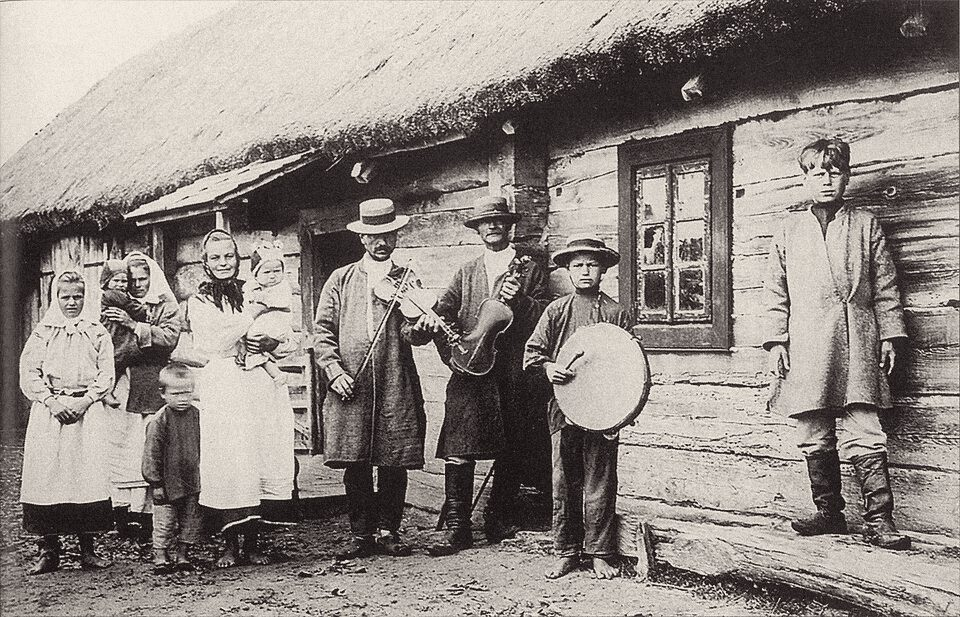
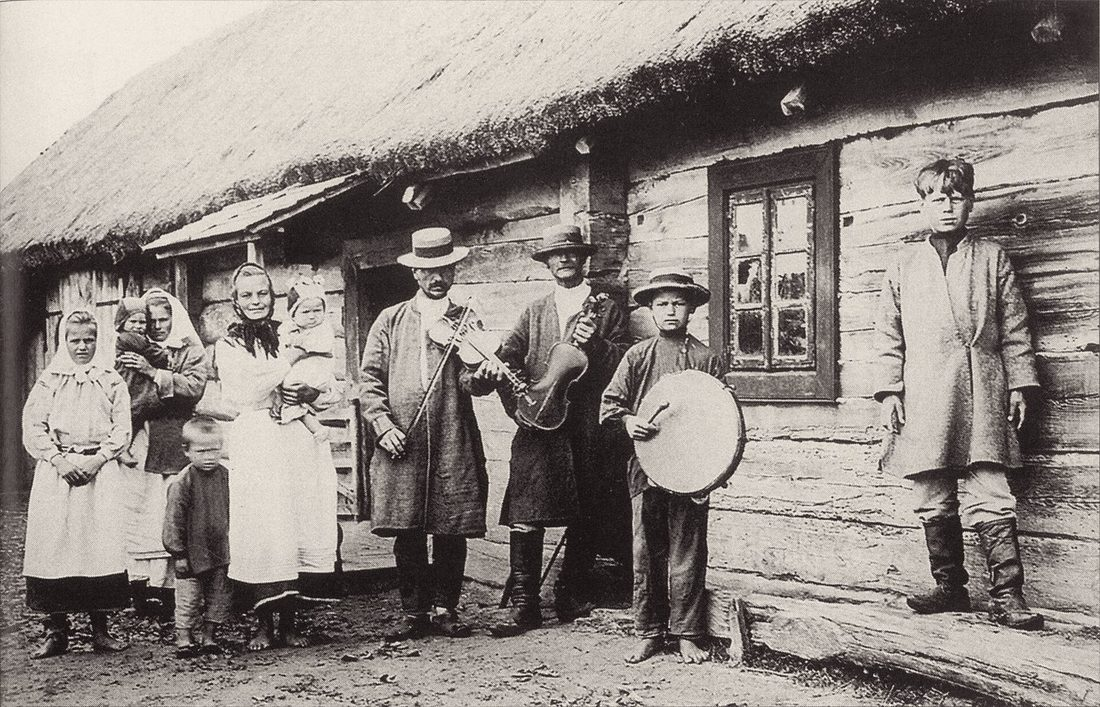
Галоўная: тры музыкі з Ляхавіч замест селяніна, усе знойдзеныя фота ў «Сяляне Слуцкага павета»
- вялікае фота на галоўнай: фрагмент здымка «Lachowiccy muzycy» (1913) з подпісам, подпіс бачны і на тэлефоне;
- селянін С. Юхніна перайшоў у блок «Людзі»;
- у «Людзі» дададзены: Беларус з-пад Клецка (Я. Булгак, 1912, Polona), Кунсткамера МАЭ № 1629-1, 1629-3, 1629-5, 1629-7;
- поўны здымак музыкаў зроблены з копіі 1920 px;
- тры шэрагі фота, на тэлефоне партрэты па тры ў радку;
- пераклады, выпраўлены польскі alt для здымка музыкаў.

Claude-Session: https://claude.ai/code/session_01CEQNfazUu5tmSUwrkbcVuZ

diff --git a/index.html b/index.html
@@ -472,7 +472,7 @@ dialog.zoom .close:hover { background: #f1ebe8; }
 .hero-ph.split figure { position: relative; margin: 0; height: 100%; overflow: hidden; }
 .hero-ph.split figure img { width: 100%; height: 100%; object-fit: cover; object-position: 50% 35%; }
 .hero-ph.split figure::before { content: ""; position: absolute; inset: 0; z-index: 1; background: linear-gradient(90deg, #ddd6ca 0, rgba(221, 214, 202, 0) 26%), linear-gradient(0deg, rgba(221, 214, 202, .9) 0, rgba(221, 214, 202, 0) 14%); pointer-events: none; }
-.home .hero-ph.split .ph-cap { color: #5d5552; z-index: 2; }
+.home .hero-ph.split .ph-cap { z-index: 2; top: 12px; right: 12px; bottom: auto; max-width: min(72%, 360px); padding: 4px 9px; border-radius: 6px; background: rgba(24, 17, 18, .6); color: #f4ede3; }
 .sec-title { display: flex; align-items: baseline; justify-content: space-between; gap: 16px; margin: 52px 0 18px; }
 .sec-title h2 { margin: 0; font: 700 clamp(26px, 3vw, 34px)/1.15 var(--serif); }
 .sec-title a { font-weight: 500; white-space: nowrap; }
@@ -540,13 +540,14 @@ a.place { text-decoration: none; }
   .history { grid-template-columns: 1fr; }
   .inf-grid { grid-template-columns: repeat(2, minmax(0, 1fr)); gap: 10px; }
   .inf-card { padding: 13px 12px 12px; } .inf-card b { font-size: 17px; }
-  .people { flex-wrap: wrap; gap: 12px; } .people figure:first-child { flex-basis: 100% !important; }
+  .people { flex-wrap: wrap; gap: 12px; } .people figure.wide { flex-basis: 100% !important; } .people figure:not(.wide) { min-width: 30%; }
   .hero-ph { min-height: 560px; height: 86vh; }
   .hero-ph.split { grid-template-columns: 1fr; height: auto; min-height: 0; }
   .hero-ph.split figure { order: -1; height: 58vh; }
   .hero-ph.split figure::before { background: linear-gradient(0deg, #ddd6ca 0, rgba(221, 214, 202, 0) 30%); }
   .hero-ph.split .hero-in { padding: 0 20px 30px; margin-top: -40px; position: relative; z-index: 2; }
   .ph-cap { display: none; }
+  .home .hero-ph.split .ph-cap { display: block; top: 10px; right: 10px; font-size: 12px; }
   .places { grid-template-columns: repeat(2, minmax(0, 1fr)); gap: 22px 14px; }
   .place b { font-size: 19px; }
   .music.collector, .music.melody { grid-template-columns: 1fr; }
@@ -1406,15 +1407,22 @@ a.place { text-decoration: none; }
       return (sub ? '<h3 class="people-h">' + t('Сяляне Слуцкага павета') + '</h3><p class="people-note">' + t('Гэта не спевакі Федароўскага, а сяляне і вясковыя музыкі Слуцкага павета, адкуль таксама паходзяць песні зборніка, на здымках пачатку XX стагоддзя. Жарабковічы — суседняя вёска са Шчаснавічамі і Заляшанамі, дзе запісвалі песні.') + '</p>'
         : '<div class="sec-title"><div><p class="eyebrow">' + t('Людзі') + '</p><h2>' + t('Сяляне Слуцкага павета') + '</h2></div></div>') +
         '<div class="people">' +
-          '<figure style="flex: 1.56 1 0"><img src="img/lachavicy-muzyki.jpg" alt="' + t('Скрыпач, музыка з басэтляй і хлопчык з бубнам каля хаты, побач жанчыны з дзецьмі') + '" loading="lazy"><figcaption>' + t('Вясковыя музыкі са скрыпкай, басэтляй і бубнам, Ляхавічы, 1913') + '</figcaption></figure>' +
+          '<figure class="wide" style="flex: 1.56 1 0"><img src="img/lachavicy-muzyki.jpg" alt="' + t('Скрыпач, музыка з басэтляй і хлопчык з бубнам каля хаты, побач жанчыны з дзецьмі') + '" loading="lazy"><figcaption>' + t('Вясковыя музыкі са скрыпкай, басэтляй і бубнам, Ляхавічы, 1913') + '</figcaption></figure>' +
           '<figure style="flex: .72 1 0"><img src="img/lachavicy-siamja.jpg" alt="' + t('Мужчына, жанчына і дзяўчынка ў святочным строі каля сцяны хаты') + '" loading="lazy"><figcaption>' + t('Сям\'я ў святочных строях, Ляхавічы, 1913. Фота Е. Раманава') + '</figcaption></figure>' +
           '<figure style="flex: .73 1 0"><img src="img/padlipcy.jpg" alt="' + t('Мужчына ў шапцы з казырком трымае на руках дзяўчынку') + '" loading="lazy"><figcaption>' + t('Селянін з дзяўчынкай, Падліпцы, 1905. Фота В. Косткі') + '</figcaption></figure>' +
+          '<figure style="flex: .68 1 0"><img src="img/padlipcy-praca.jpg" alt="' + t('Босы мужчына ў камізэльцы і палатняных портках') + '" loading="lazy"><figcaption>' + t('Селянін у рабочым строі, Падліпцы, да 1907') + '</figcaption></figure>' +
         '</div><div class="people">' +
-          '<figure style="flex: 1.64 1 0"><img src="img/lucniki.jpg" alt="' + t('Сяляне, мужчыны, жанчыны і дзеці, каля плота і хаты') + '" loading="lazy"><figcaption>' + t('Сяляне вёскі Лучнікі. Паштоўка паводле фота С. Юхніна, да 1917') + '</figcaption></figure>' +
+          '<figure class="wide" style="flex: 1.64 1 0"><img src="img/lucniki.jpg" alt="' + t('Сяляне, мужчыны, жанчыны і дзеці, каля плота і хаты') + '" loading="lazy"><figcaption>' + t('Сяляне вёскі Лучнікі. Паштоўка паводле фота С. Юхніна, да 1917') + '</figcaption></figure>' +
+          '<figure style="flex: .77 1 0"><img src="img/sluck-sielanin.jpg" alt="' + t('Стары селянін у кажуху і футравай шапцы, з люлькай і кіем') + '" loading="lazy"><figcaption>' + t('«Тып беларускага селяніна», Слуцк, да 1917. Фота С. Юхніна') + '</figcaption></figure>' +
+          '<figure style="flex: .61 1 0"><img src="img/kleck-bialorusin.jpg" alt="' + t('Стары барадаты мужчына ў світцы каля драўлянай сцяны') + '" loading="lazy"><figcaption>' + t('Беларус з-пад Клецка, 1912. Фота Я. Булгака') + '</figcaption></figure>' +
+          '<figure style="flex: .75 1 0"><img src="img/padlipcy-sviata.jpg" alt="' + t('Мужчына ў цёмнай світцы і белай кашулі') + '" loading="lazy"><figcaption>' + t('Селянін у святочным строі, Падліпцы, да 1907') + '</figcaption></figure>' +
+        '</div><div class="people">' +
           '<figure style="flex: .61 1 0"><img src="img/zarabkovicy-sialanin.jpg" alt="' + t('Мужчына ў саламяным капелюшы і доўгай світцы') + '" loading="lazy"><figcaption>' + t('Селянін у святочнай світцы, Жарабковічы, да 1907') + '</figcaption></figure>' +
           '<figure style="flex: .6 1 0"><img src="img/zarabkovicy-chlopiec.jpg" alt="' + t('Малады мужчына ў белай світцы і шапцы з казырком каля зруба') + '" loading="lazy"><figcaption>' + t('Малады селянін у святочным строі, Жарабковічы, да 1907') + '</figcaption></figure>' +
+          '<figure style="flex: .735 1 0"><img src="img/zarabkovicy-sialanin-2.jpg" alt="' + t('Мужчына ў картузе і світцы каля свірнаў') + '" loading="lazy"><figcaption>' + t('Селянін у святочным строі, Жарабковічы, да 1907') + '</figcaption></figure>' +
           '<figure style="flex: .83 1 0"><img src="img/zarabkovicy-muzcyna.jpg" alt="' + t('Мужчына з барадой у світцы') + '" loading="lazy"><figcaption>' + t('Селянін, 40 гадоў, Жарабковічы, да 1907') + '</figcaption></figure>' +
-        '</div><p class="ph-credit">' + t('Фота: Wikimedia Commons і Кунсткамера (МАЭ РАН), грамадскі набытак') + '</p>';
+          '<figure style="flex: .91 1 0"><img src="img/zarabkovicy-junak.jpg" alt="' + t('Юнак у картузе і светлай світцы') + '" loading="lazy"><figcaption>' + t('Юнак, 19 гадоў, Жарабковічы, да 1907') + '</figcaption></figure>' +
+        '</div><p class="ph-credit">' + t('Фота: Wikimedia Commons, Polona і Кунсткамера (МАЭ РАН), грамадскі набытак') + '</p>';
     };
     var first = visible[0] || SONGS[0];
     $('view').innerHTML =
@@ -1424,8 +1432,8 @@ a.place { text-decoration: none; }
       '<p class="sub">' + (ADULT ? t('{n} {songs} ў канцы XIX стагоддзя, з тома VIa зборніка {fed} <i lang="pl">Lud białoruski na Rusi Litewskiej</i>, раздзелы «Pieśni obsceniczne» і «Pieśni obsceniczne taneczne»: жартоўныя і непрыстойныя песні, дыялогі, прыпеўкі да круцёлкі, полькі і мяцеліцы. Песні, якія спяваюцца ад імя жанчыны, сюды не ўвайшлі. Для {m} з іх ёсць ноты, і мелодыю можна праслухаць. Гэты раздзел асобны: у асноўны каталог і пошук ён не трапляе.', { n: nf.format(SONGS.length), songs: plural(SONGS.length, 'мужчынская песня і прыпеўка, запісаная', 'мужчынскія песні і прыпеўкі, запісаныя', 'мужчынскіх песень і прыпевак, запісаных'), fed: fed, m: nf.format(own + ref) })
         : t('{n} {songs} ў канцы XIX стагоддзя, з V і VI тамоў зборніка {fed} <i lang="pl">Lud białoruski na Rusi Litewskiej</i>: тыя, што спяваюцца ад імя хлопца, казака, жаўнера, рэкрута, мужа, дыялогі з мужчынскай партыяй, балады і думы, рэкруцкія, чумацкія, жартоўныя і застольныя, круцёлкі і іншыя танцы, валачобныя, калядныя і хрэсьбінныя. Для {m} з іх ёсць ноты, і мелодыю можна праслухаць.', { n: nf.format(SONGS.length), songs: plural(SONGS.length, 'песня, запісаная', 'песні, запісаныя', 'песень, запісаных'), fed: fed, m: nf.format(own + ref) })) + '</p>' +
       '<button class="home-search" id="homeSearch">' + svg('search', '') + t('Нумар, радок, імя…') + '</button></div>' +
-      '<figure><img src="img/sluck-sielanin.jpg" alt="' + t('Стары селянін у кажуху і футравай шапцы, з люлькай і кіем') + '" fetchpriority="high">' +
-      '<figcaption class="ph-cap">' + t('«Тып беларускага селяніна», Слуцк, да 1917. Фота С. Юхніна, грамадскі набытак') + '</figcaption></figure></section>' +
+      '<figure><img src="img/lachavicy-muzyki-hero.jpg" alt="' + t('Скрыпач, музыка з басэтляй і хлопчык з бубнам каля хаты пад саламянай страхой') + '" fetchpriority="high">' +
+      '<figcaption class="ph-cap">' + t('Вясковыя музыкі са скрыпкай, басэтляй і бубнам, Ляхавічы, 1913. Wikimedia Commons, грамадскі набытак') + '</figcaption></figure></section>' +
       '<p class="actions"><a class="btn primary" href="#' + esc(first.id) + '">' + svg('book', '') + t('Адкрыць першую песню') + '</a><a class="btn quiet" href="#map">' + svg('map', '') + t('Мапа мясцін') + '</a>' + (ADULT ? '<a class="btn quiet" href="' + MAIN + '">' + t('Асноўны каталог') + '</a>' : '') + '</p>' +
       '<section class="music collector"><figure><img src="img/fedarouski.jpg" alt="' + t('Міхал Федароўскі') + '" loading="lazy"><figcaption>' + t('Міхал Федароўскі (1853–1923). Фота з IV тома «Lud białoruski», 1935. Polona, грамадскі набытак') + '</figcaption></figure>' +
       '<div><p class="eyebrow">' + t('Збіральнік') + '</p><h2>' + t('Міхал Федароўскі') + '</h2><p>' + t('З 1877 па 1905 год ён збіраў песні, казкі, прыказкі і павер\'і з Ваўкавышчыны, Слонімшчыны, Лідчыны, Сакольшчыны і суседніх паветаў. Запісы паходзілі з розных крыніц. З гэтых матэрыялаў склалася восем тамоў «Lud białoruski na Rusi Litewskiej».') + '</p><p>' + t('Песні з нотамі ўвайшлі ў V і VI тамы. Пры кожнай песні пазначана мясціна і, калі вядома, ад каго яе запісалі.') + '</p></div></section>' +

diff --git a/i18n.js b/i18n.js
@@ -148,7 +148,7 @@
     ["мужчынскія песні і прыпеўкі, запісаныя", "męskie pieśni i przyśpiewki zapisane", "men’s songs and ditties written down"],
     ["мужчынскіх песень і прыпевак, запісаных", "męskich pieśni i przyśpiewek zapisanych", "men’s songs and ditties written down"],
     ["Стары селянін у кажуху і футравай шапцы, з люлькай і кіем", "Stary chłop w kożuchu i futrzanej czapce, z fajką i laską", "An old peasant in a sheepskin coat and fur hat, with a pipe and a stick"],
-    ["«Тып беларускага селяніна», Слуцк, да 1917. Фота С. Юхніна, грамадскі набытак", "„Typ chłopa białoruskiego”, Słuck, przed 1917. Fot. S. Juchnin, domena publiczna", "“A Belarusian peasant type”, Slutsk, before 1917. Photo by S. Yukhnin, public domain"],
+    ["«Тып беларускага селяніна», Слуцк, да 1917. Фота С. Юхніна", "„Typ chłopa białoruskiego”, Słuck, przed 1917. Fot. S. Juchnin", "“A Belarusian peasant type”, Slutsk, before 1917. Photo by S. Yukhnin"],
     ["Адкрыць першую песню", "Otwórz pierwszą pieśń", "Open the first song"],
     ["Асноўны каталог", "Główny katalog", "Main catalogue"],
     ["Мясціны", "Miejscowości", "Places"],
@@ -181,7 +181,7 @@
     ["Мужчына ў шапцы з казырком трымае на руках дзяўчынку", "Mężczyzna w czapce z daszkiem trzyma na rękach dziewczynkę", "A man in a peaked cap holding a little girl"],
     ["Селянін з дзяўчынкай, Падліпцы, 1905. Фота В. Косткі", "Chłop z dziewczynką, Podlipce, 1905. Fot. W. Kostka", "A peasant with a little girl, Padliptsy, 1905. Photo by V. Kostka"],
     ["Гэта не спевакі Федароўскага, а сяляне і вясковыя музыкі Слуцкага павета, адкуль таксама паходзяць песні зборніка, на здымках пачатку XX стагоддзя. Жарабковічы — суседняя вёска са Шчаснавічамі і Заляшанамі, дзе запісвалі песні.", "To nie śpiewacy Federowskiego, lecz chłopi i wiejscy muzykanci z powiatu słuckiego, z którego także pochodzą pieśni zbioru, na zdjęciach z początku XX wieku. Żerebkowicze sąsiadują ze Szczasnowiczami i Zaleszanami, gdzie zapisywano pieśni.", "These are not Federowski’s singers but peasants and village musicians of Slutsk district, where some of the collection’s songs also come from, in photographs from the early 20th century. Zharabkovichy is the next village to Shchasnavichy and Zalyashany, where songs were written down."],
-    ["Скрыпач, музыка з басэтляй і хлопчык з бубнам каля хаты, побач жанчыны з дзецьмі", "A fiddler, a bass player and a boy with a drum by a cottage, women with children beside them", "A fiddler, a bass player and a boy with a drum by a cottage, with women and children beside them"],
+    ["Скрыпач, музыка з басэтляй і хлопчык з бубнам каля хаты, побач жанчыны з дзецьмі", "Skrzypek, muzykant z basetlą i chłopiec z bębenkiem przy chacie, obok kobiety z dziećmi", "A fiddler, a bass player and a boy with a drum by a cottage, with women and children beside them"],
     ["Вясковыя музыкі са скрыпкай, басэтляй і бубнам, Ляхавічы, 1913", "Wiejscy muzykanci ze skrzypcami, basetlą i bębenkiem, Lachowicze, 1913", "Village musicians with a fiddle, a bass and a drum, Lyakhavichy, 1913"],
     ["Мужчына ў саламяным капелюшы і доўгай світцы", "Mężczyzna w słomkowym kapeluszu i długiej świcie", "A man in a straw hat and a long homespun coat"],
     ["Селянін у святочнай світцы, Жарабковічы, да 1907", "Chłop w odświętnej świcie, Żerebkowicze, przed 1907", "A peasant in a festive homespun coat, Zharabkovichy, before 1907"],
@@ -189,7 +189,19 @@
     ["Малады селянін у святочным строі, Жарабковічы, да 1907", "Młody chłop w stroju odświętnym, Żerebkowicze, przed 1907", "A young peasant in festive dress, Zharabkovichy, before 1907"],
     ["Мужчына з барадой у світцы", "Brodaty mężczyzna w świcie", "A bearded man in a homespun coat"],
     ["Селянін, 40 гадоў, Жарабковічы, да 1907", "Chłop, 40 lat, Żerebkowicze, przed 1907", "A peasant, aged 40, Zharabkovichy, before 1907"],
-    ["Фота: Wikimedia Commons і Кунсткамера (МАЭ РАН), грамадскі набытак", "Zdjęcia: Wikimedia Commons i Kunstkamera (MAE RAN), domena publiczna", "Photos: Wikimedia Commons and the Kunstkamera (MAE RAS), public domain"],
+    ["Фота: Wikimedia Commons, Polona і Кунсткамера (МАЭ РАН), грамадскі набытак", "Zdjęcia: Wikimedia Commons, Polona i Kunstkamera (MAE RAN), domena publiczna", "Photos: Wikimedia Commons, Polona and the Kunstkamera (MAE RAS), public domain"],
+    ["Скрыпач, музыка з басэтляй і хлопчык з бубнам каля хаты пад саламянай страхой", "Skrzypek, muzykant z basetlą i chłopiec z bębenkiem przy chacie krytej strzechą", "A fiddler, a bass player and a boy with a drum by a thatched cottage"],
+    ["Вясковыя музыкі са скрыпкай, басэтляй і бубнам, Ляхавічы, 1913. Wikimedia Commons, грамадскі набытак", "Wiejscy muzykanci ze skrzypcami, basetlą i bębenkiem, Lachowicze, 1913. Wikimedia Commons, domena publiczna", "Village musicians with a fiddle, a bass and a drum, Lyakhavichy, 1913. Wikimedia Commons, public domain"],
+    ["Стары барадаты мужчына ў світцы каля драўлянай сцяны", "Stary brodaty mężczyzna w świcie przy drewnianej ścianie", "An old bearded man in a homespun coat by a wooden wall"],
+    ["Беларус з-пад Клецка, 1912. Фота Я. Булгака", "Białorusin spod Klecka, 1912. Fot. J. Bułhak", "A Belarusian from near Kletsk, 1912. Photo by J. Bułhak"],
+    ["Мужчына ў картузе і світцы каля свірнаў", "Mężczyzna w kaszkiecie i świcie przy spichrzach", "A man in a peaked cap and homespun coat by granaries"],
+    ["Селянін у святочным строі, Жарабковічы, да 1907", "Chłop w stroju odświętnym, Żerebkowicze, przed 1907", "A peasant in festive dress, Zharabkovichy, before 1907"],
+    ["Юнак у картузе і светлай світцы", "Młodzieniec w kaszkiecie i jasnej świcie", "A young man in a peaked cap and a light homespun coat"],
+    ["Юнак, 19 гадоў, Жарабковічы, да 1907", "Młodzieniec, 19 lat, Żerebkowicze, przed 1907", "A young man, aged 19, Zharabkovichy, before 1907"],
+    ["Мужчына ў цёмнай світцы і белай кашулі", "Mężczyzna w ciemnej świcie i białej koszuli", "A man in a dark homespun coat and a white shirt"],
+    ["Селянін у святочным строі, Падліпцы, да 1907", "Chłop w stroju odświętnym, Podlipce, przed 1907", "A peasant in festive dress, Padliptsy, before 1907"],
+    ["Босы мужчына ў камізэльцы і палатняных портках", "Bosy mężczyzna w kamizelce i lnianych portkach", "A barefoot man in a waistcoat and linen trousers"],
+    ["Селянін у рабочым строі, Падліпцы, да 1907", "Chłop w stroju roboczym, Podlipce, przed 1907", "A peasant in working dress, Padliptsy, before 1907"],
     ["Міхал Федароўскі (1853–1923). Фота з IV тома «Lud białoruski», 1935. Polona, грамадскі набытак", "Michał Federowski (1853–1923). Zdjęcie z tomu IV „Ludu białoruskiego”, 1935. Polona, domena publiczna", "Michał Federowski (1853–1923). Photo from volume IV of Lud białoruski, 1935. Polona, public domain"],
     ["Збіральнік", "Zbieracz", "The collector"],
     ["З 1877 па 1905 год ён збіраў песні, казкі, прыказкі і павер'і з Ваўкавышчыны, Слонімшчыны, Лідчыны, Сакольшчыны і суседніх паветаў. Запісы паходзілі з розных крыніц. З гэтых матэрыялаў склалася восем тамоў «Lud białoruski na Rusi Litewskiej».", "W latach 1877–1905 zbierał pieśni, bajki, przysłowia i wierzenia z Wołkowyszczyzny, Słonimszczyzny, Lidczyzny, Sokólszczyzny i sąsiednich powiatów. Zapisy pochodziły z różnych źródeł. Z tych materiałów powstało osiem tomów „Ludu białoruskiego na Rusi Litewskiej”.", "From 1877 to 1905 he collected songs, tales, proverbs and beliefs from the Vawkavysk, Slonim, Lida and Sokółka districts and the areas around them. The records came from various sources. These materials made up the eight volumes of Lud białoruski na Rusi Litewskiej."],

diff --git a/img/README.md b/img/README.md
@@ -5,7 +5,8 @@
 
 | Файл | Дзе на сайце | Што на фота | Дата | Крыніца |
 |---|---|---|---|---|
-| `sluck-sielanin.jpg` | галоўная, вялікае фота | «Тып беларускага селяніна», Слуцк. Фота С. Юхніна | да 1917 | [Wikimedia Commons](https://commons.wikimedia.org/wiki/File:23_Slucak_Bielaruski_sielanin.jpg) |
+| `lachavicy-muzyki-hero.jpg` | галоўная, вялікае фота | Тры музыкі (скрыпка, басэтля, бубен), фрагмент здымка `lachavicy-muzyki.jpg`, Ляхавічы | 1913 | [Wikimedia Commons](https://commons.wikimedia.org/wiki/File:Lachowiccy_muzycy.jpg) |
+| `sluck-sielanin.jpg` | «Людзі» | «Тып беларускага селяніна», Слуцк. Фота С. Юхніна | да 1917 | [Wikimedia Commons](https://commons.wikimedia.org/wiki/File:23_Slucak_Bielaruski_sielanin.jpg) |
 | `vaukavysk-1919.jpg` | «Мясціны» | Ваўкавыск, паштоўка | 1919 | [Polona](https://polona.pl/item-view/dcce3761-025b-4d1b-86cb-345beb16927e) |
 | `svislach.jpg` | «Мясціны» | Свіслач, касцёл (паштоўка паводле малюнка Н. Орды) | 1910–1930 | [Polona](https://polona.pl/item-view/5de2e631-60f9-49de-9ca5-191b99c86cbe) |
 | `bierastavica.jpg` | «Мясціны» | Вялікая Бераставіца, стары касцёл | 1920 | [Polona](https://polona.pl/item-view/a6be813e-58fc-49b0-a3d2-1defb3b03b81) |
@@ -21,6 +22,11 @@
 | `zarabkovicy-sialanin.jpg` | «Людзі» | Селянін у святочным строі, Жарабковічы Слуцкага павета. Аўтар не пазначаны | да 1907 | [Кунсткамера (МАЭ РАН)](https://collection.kunstkamera.ru/entity/OBJECT/72285), МАЭ № 1629-9, з Этнаграфічнага аддзела Рускага музея |
 | `zarabkovicy-chlopiec.jpg` | «Людзі» | Малады селянін у святочным строі, Жарабковічы | да 1907 | [Кунсткамера (МАЭ РАН)](https://collection.kunstkamera.ru/entity/OBJECT/72286), МАЭ № 1629-11 |
 | `zarabkovicy-muzcyna.jpg` | «Людзі» | Селянін 40 гадоў, Жарабковічы | да 1907 | [Кунсткамера (МАЭ РАН)](https://collection.kunstkamera.ru/entity/OBJECT/72275), МАЭ № 1629-4 |
+| `zarabkovicy-sialanin-2.jpg` | «Людзі» | Селянін у святочным строі, Жарабковічы | да 1907 | [Кунсткамера (МАЭ РАН)](https://collection.kunstkamera.ru/entity/OBJECT/72272), МАЭ № 1629-1 |
+| `zarabkovicy-junak.jpg` | «Людзі» | Юнак 19 гадоў, Жарабковічы | да 1907 | [Кунсткамера (МАЭ РАН)](https://collection.kunstkamera.ru/entity/OBJECT/72274), МАЭ № 1629-3 |
+| `padlipcy-sviata.jpg` | «Людзі» | Селянін у святочным строі, Падліпцы Слуцкага павета | да 1907 | [Кунсткамера (МАЭ РАН)](https://collection.kunstkamera.ru/entity/OBJECT/72281), МАЭ № 1629-5 |
+| `padlipcy-praca.jpg` | «Людзі» | Селянін у рабочым строі, Падліпцы | да 1907 | [Кунсткамера (МАЭ РАН)](https://collection.kunstkamera.ru/entity/OBJECT/72283), МАЭ № 1629-7 |
+| `kleck-bialorusin.jpg` | «Людзі» | «Białorusin z pod Klecka (pow. słucki)». Фота Я. Булгака | 1912 | [Polona](https://polona.pl/item-view/130f91d1-c13e-40bc-9455-5f498d5d6a0b): «Litwa i Ruś», Вільня, 1912, т. 4, сш. 2 (скан з мікрафільма) |
 | `spjavacka-bajarczykava-1891.jpg` | «Ад каго запісаныя песні» | спявачка Марыля Баярчыкова з вёскі Вялікія Азяранкі (Ваўкавыскі павет) | 1891 | [Polona](https://polona.pl/item-view/cbf823b9-5e54-4371-9484-cf939b5d544d): «Życie i prace Jana Karłowicza», Варшава, 1904, арт. М. Федароўскага «Z nad Niemna», с. 81 |
 | `spjavacka-goslauska-1891.jpg` | «Ад каго запісаныя песні» | спявачка Юзэфа Гаслаўская з Мсцібава (Ваўкавыскі павет) | 1891 | тая ж кніга, с. 82 |
 | `fedarouski.jpg` | «Збіральнік» | Міхал Федароўскі, партрэт з IV тома «Lud białoruski» | 1935 | [Polona](https://polona.pl/item-view/b712c7b4-2927-4766-96fd-c2b7d488f468) |
